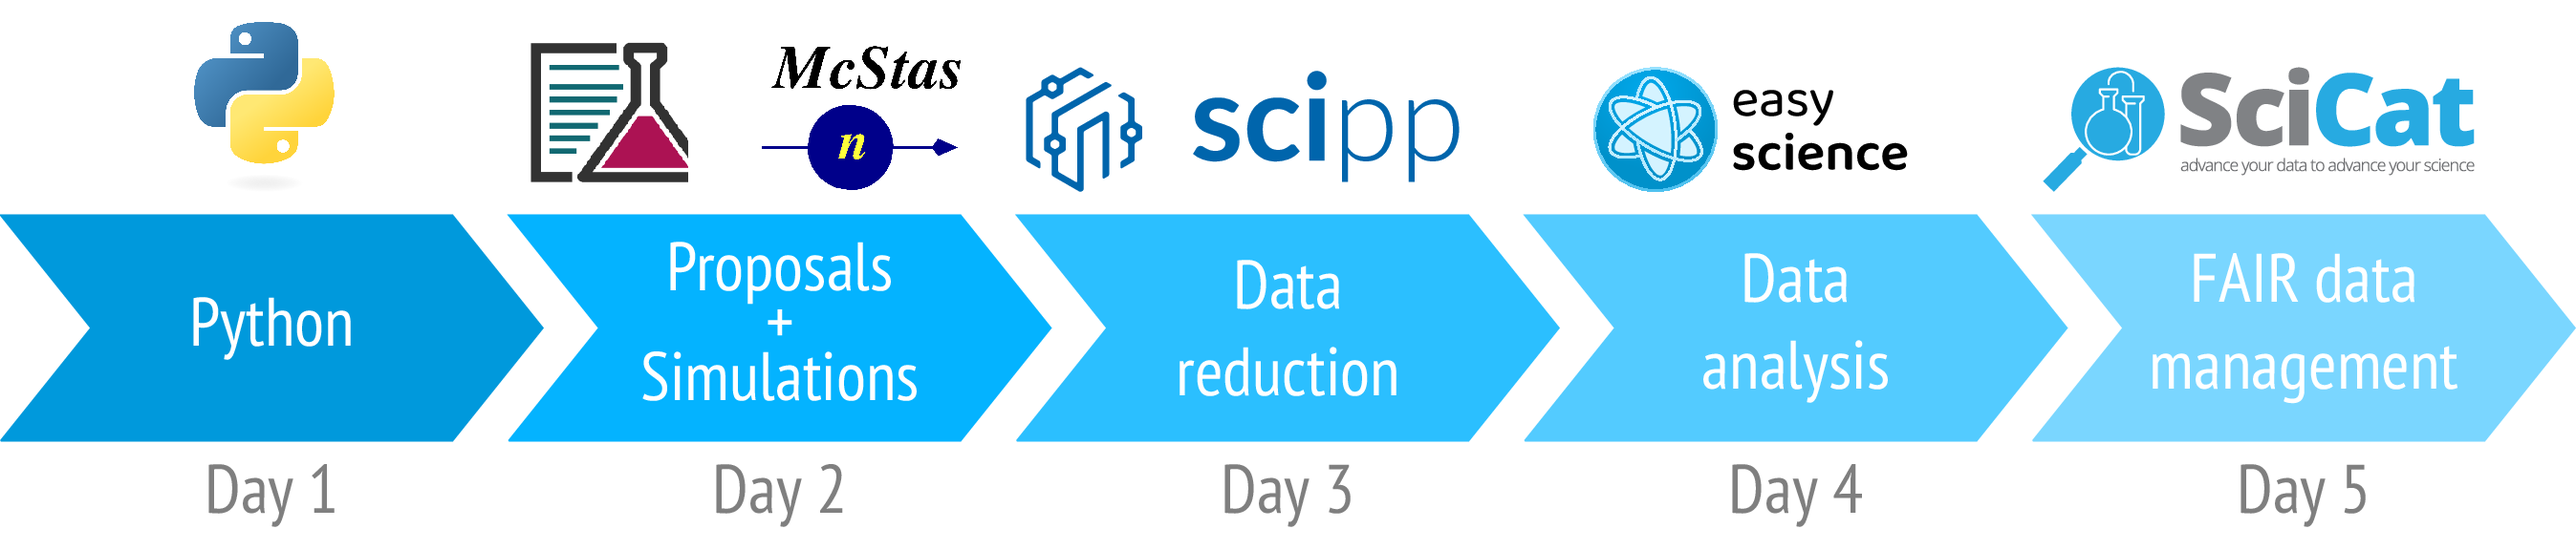
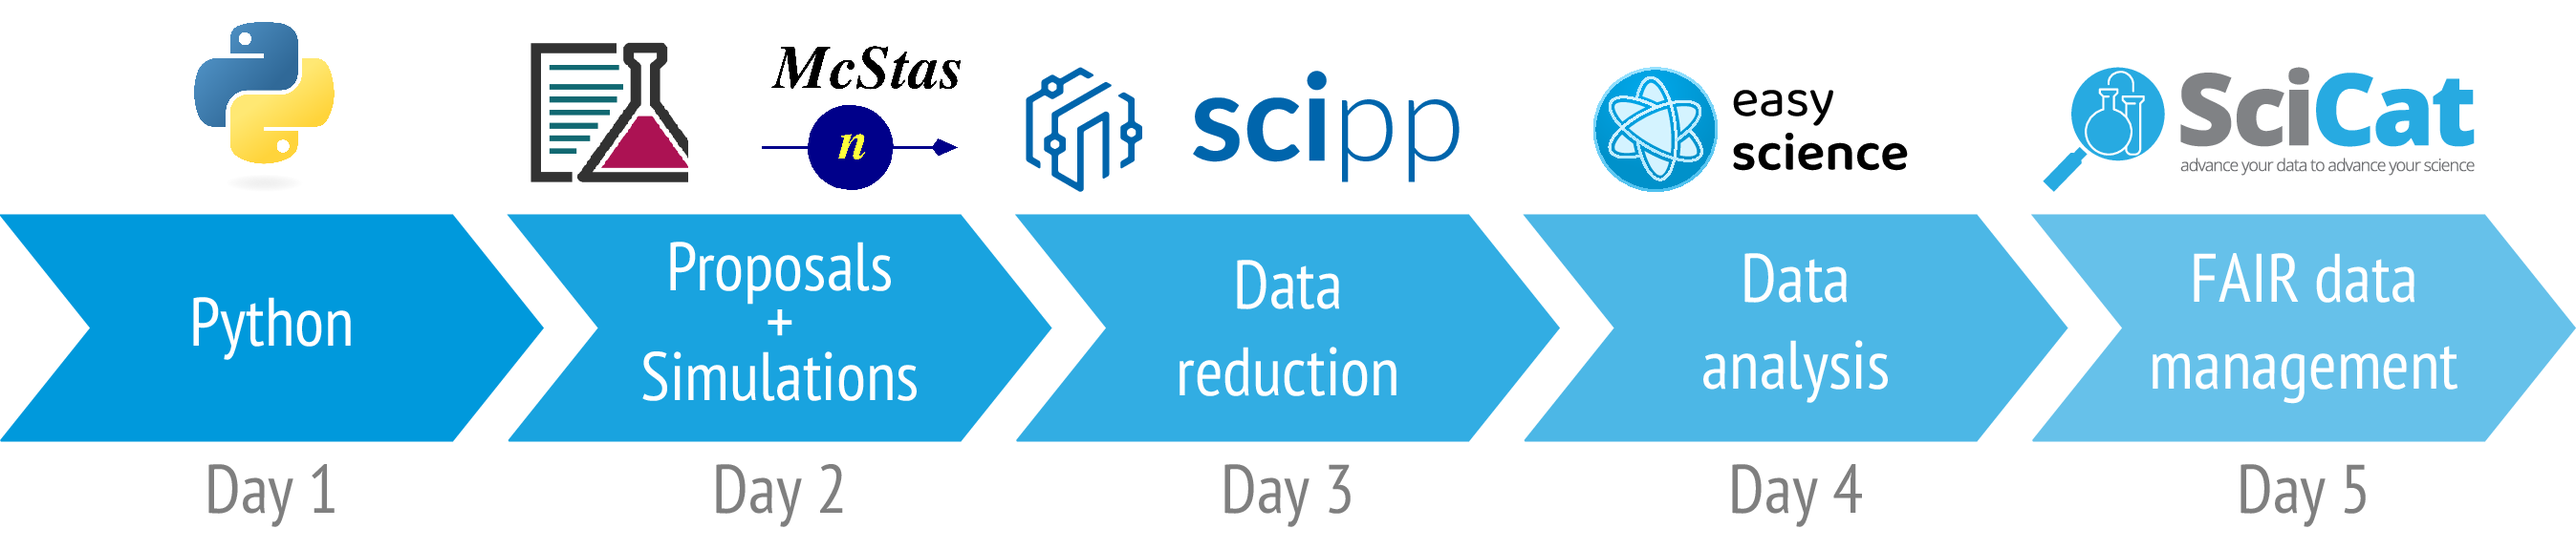
change the blue colors

Changed region(s): [[0.187, 0.375, 0.8104, 0.8125]]

diff --git a/resources/pipeline-diagram.tex b/resources/pipeline-diagram.tex
@@ -15,17 +15,17 @@
 
 \LARGE
 
-% \definecolor{color1}{HTML}{0099dc};
-% \definecolor{color2}{HTML}{19a3df};
-% \definecolor{color3}{HTML}{32ade3};
-% \definecolor{color4}{HTML}{4cb7e6};
-% \definecolor{color5}{HTML}{66c1ea};
-
 \definecolor{color1}{HTML}{0099dc};
-\definecolor{color2}{HTML}{003366};
-\definecolor{color3}{HTML}{006646};
-\definecolor{color4}{HTML}{821482};
-\definecolor{color5}{HTML}{ff7d00};
+\definecolor{color2}{HTML}{19a3df};
+\definecolor{color3}{HTML}{32ade3};
+\definecolor{color4}{HTML}{4cb7e6};
+\definecolor{color5}{HTML}{66c1ea};
+
+% \definecolor{color1}{HTML}{0099dc};
+% \definecolor{color2}{HTML}{003366};
+% \definecolor{color3}{HTML}{006646};
+% \definecolor{color4}{HTML}{821482};
+% \definecolor{color5}{HTML}{ff7d00};
 
 
 \def\x{0.0};
